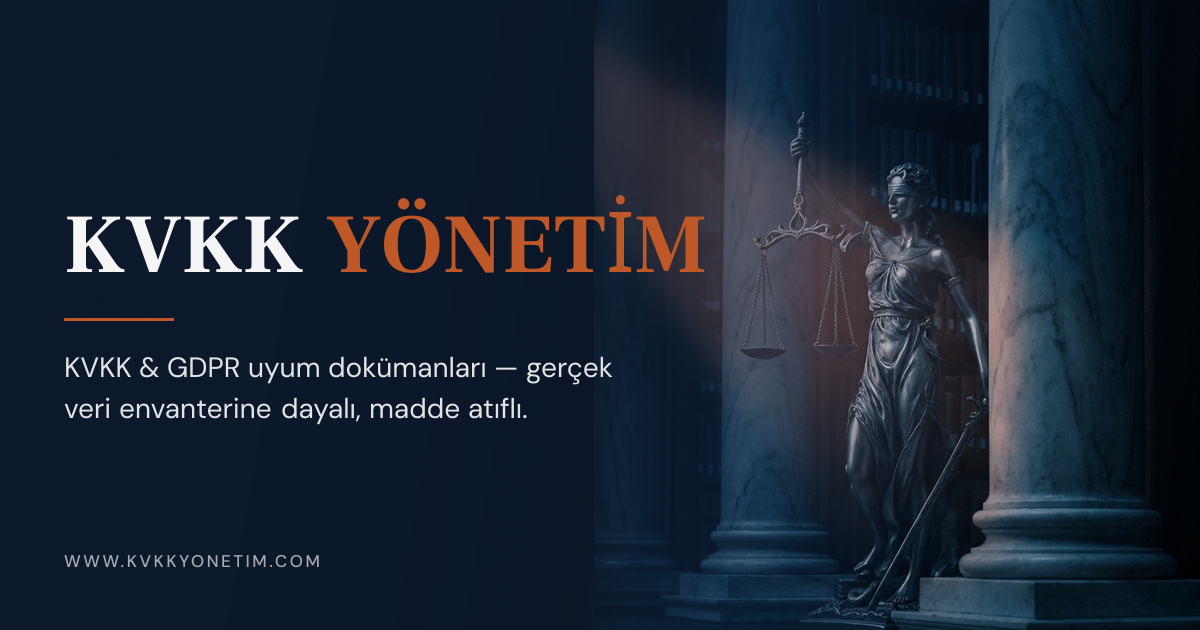
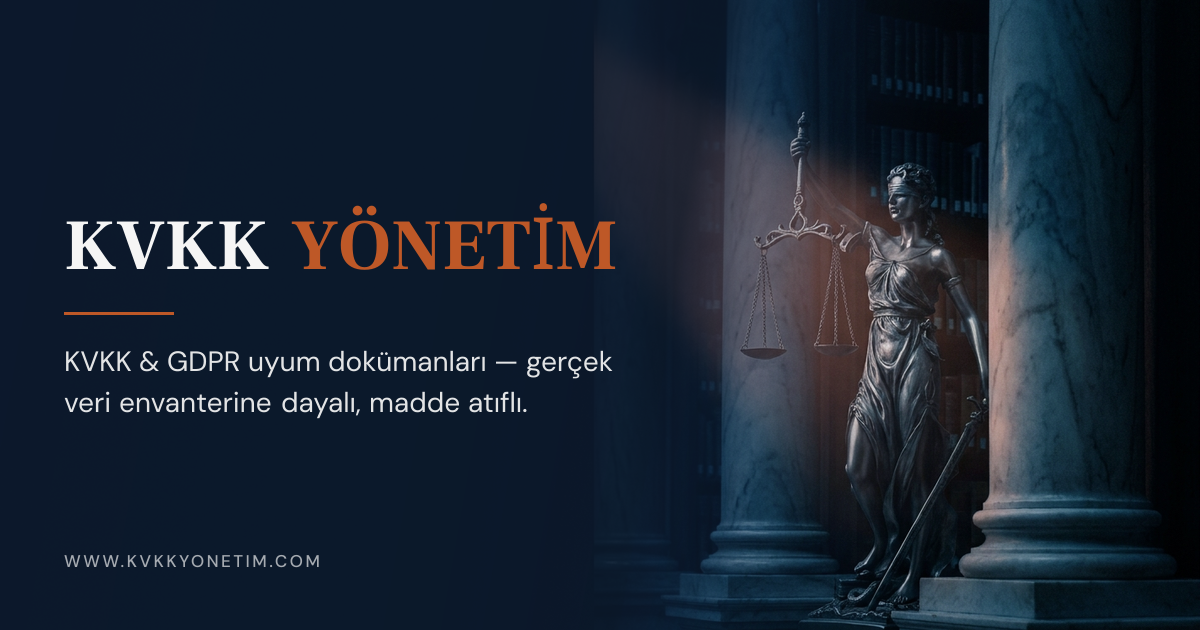
feat(analytics): Plausible (gizlilik-dostu) + OG kompozisyon rötuşu (#8)
* fix(seo): OG basligi kucultuldu (72px) + scrim sikilastirildi

Baslik metni sag bolmedeki heykel/terazi alanina tasiyordu; font 84->72,
scrim ~%53'e kadar tam koyu sonra hizli sifir -> metin koyu solda kalir,
terazi net gorunur. Onceki OG duzeltmesinin kompozisyon rotusu.

* feat(analytics): Plausible ekle (production-gated, cerezsiz)

Gizlilik-dostu analytics (cerez yok, kisisel veri yok -> KVKK/GDPR uyumlu,
riza banner'i gerekmez). next/script afterInteractive, yalniz VERCEL_ENV=
production'da yuklenir (preview/localhost istatistik kirletmez). data-domain
tek kaynak site.ts'te (PLAUSIBLE_DOMAIN=kvkkyonetim.com).

diff --git a/src/app/layout.tsx b/src/app/layout.tsx
@@ -1,8 +1,9 @@
 import type { Metadata, Viewport } from "next";
 import { Frank_Ruhl_Libre, DM_Sans } from "next/font/google";
+import Script from "next/script";
 import "./globals.css";
 import { AuthProvider } from "@/lib/auth-context";
-import { SITE_NAME, SITE_URL } from "@/lib/site";
+import { PLAUSIBLE_DOMAIN, SITE_NAME, SITE_URL } from "@/lib/site";
 
 // Tipografi disiplini (2026-07-06): YALNIZ referans sitenin iki ailesi —
 // Frank Ruhl Libre (başlık serif'i) + DM Sans (geri kalan her şey). Üçüncü font yok;
@@ -59,9 +60,23 @@ export default function RootLayout({
 }: Readonly<{
   children: React.ReactNode;
 }>) {
+  // Plausible yalnız Vercel PRODUCTION dağıtımında yüklenir — preview/localhost
+  // istatistikleri kirletmez. Gizlilik-dostu, çerezsiz; rıza banner'ı gerekmez.
+  const analyticsEnabled = process.env.VERCEL_ENV === "production";
+
   return (
     <html lang="tr" className={`${frankRuhl.variable} ${dmSans.variable} h-full`}>
-      <body className="min-h-full"><AuthProvider>{children}</AuthProvider></body>
+      <body className="min-h-full">
+        <AuthProvider>{children}</AuthProvider>
+        {analyticsEnabled && (
+          <Script
+            defer
+            data-domain={PLAUSIBLE_DOMAIN}
+            src="https://plausible.io/js/script.js"
+            strategy="afterInteractive"
+          />
+        )}
+      </body>
     </html>
   );
 }

diff --git a/src/lib/site.ts b/src/lib/site.ts
@@ -9,6 +9,13 @@
 export const SITE_URL = "https://www.kvkkyonetim.com";
 export const SITE_NAME = "KVKK Yönetim";
 
+/**
+ * Plausible Analytics `data-domain` — Plausible panelinde site AYNI string ile eklenmeli.
+ * Gizlilik-dostu (çerez yok, kişisel veri toplamaz → KVKK/GDPR'a uygun; rıza banner'ı gerekmez).
+ * Script yalnız production'da yüklenir (bkz. layout.tsx VERCEL_ENV gate).
+ */
+export const PLAUSIBLE_DOMAIN = "kvkkyonetim.com";
+
 /** (marketing) route group altındaki, index'lenmesi istenen 8 public sayfa. */
 export const MARKETING_ROUTES = [
   "/",